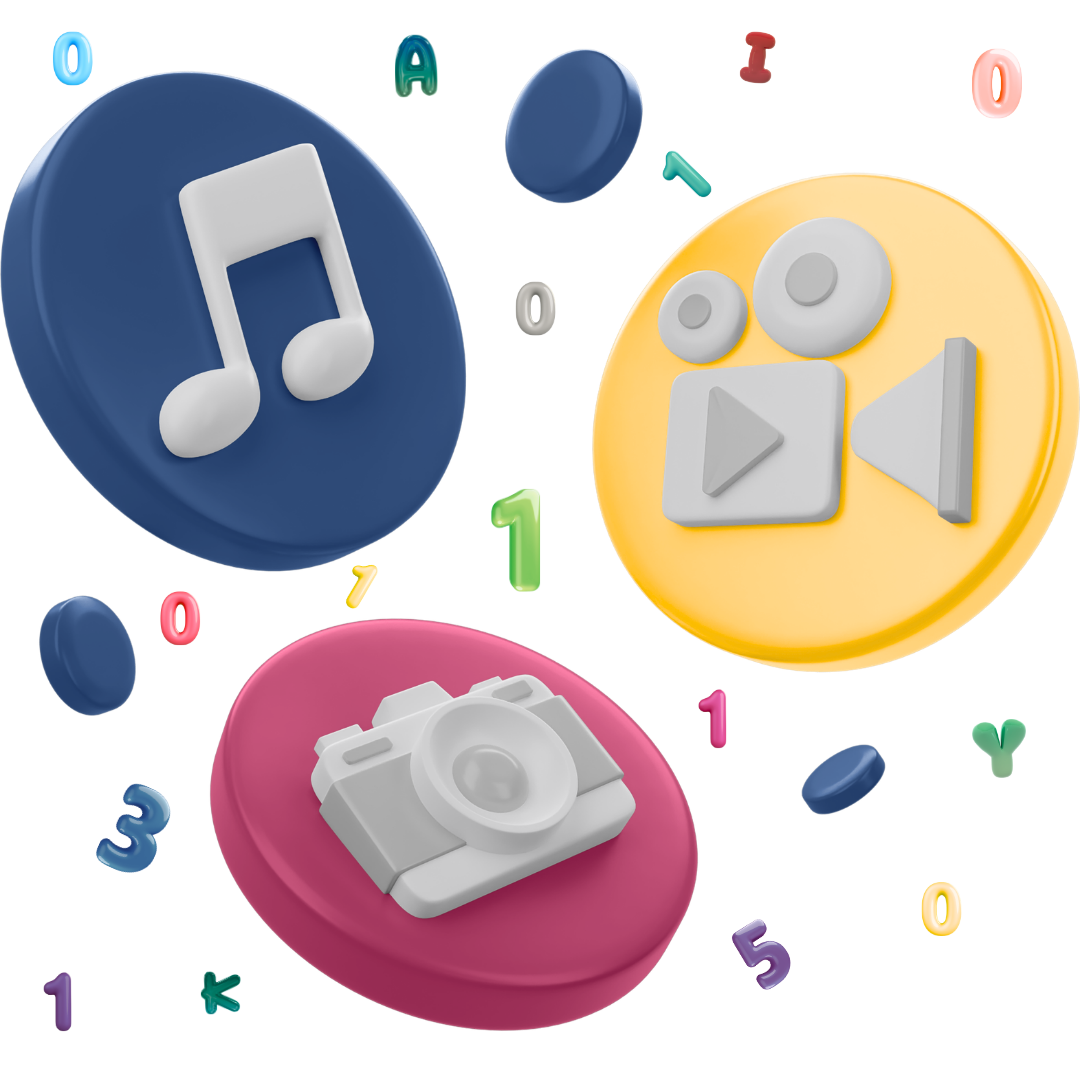
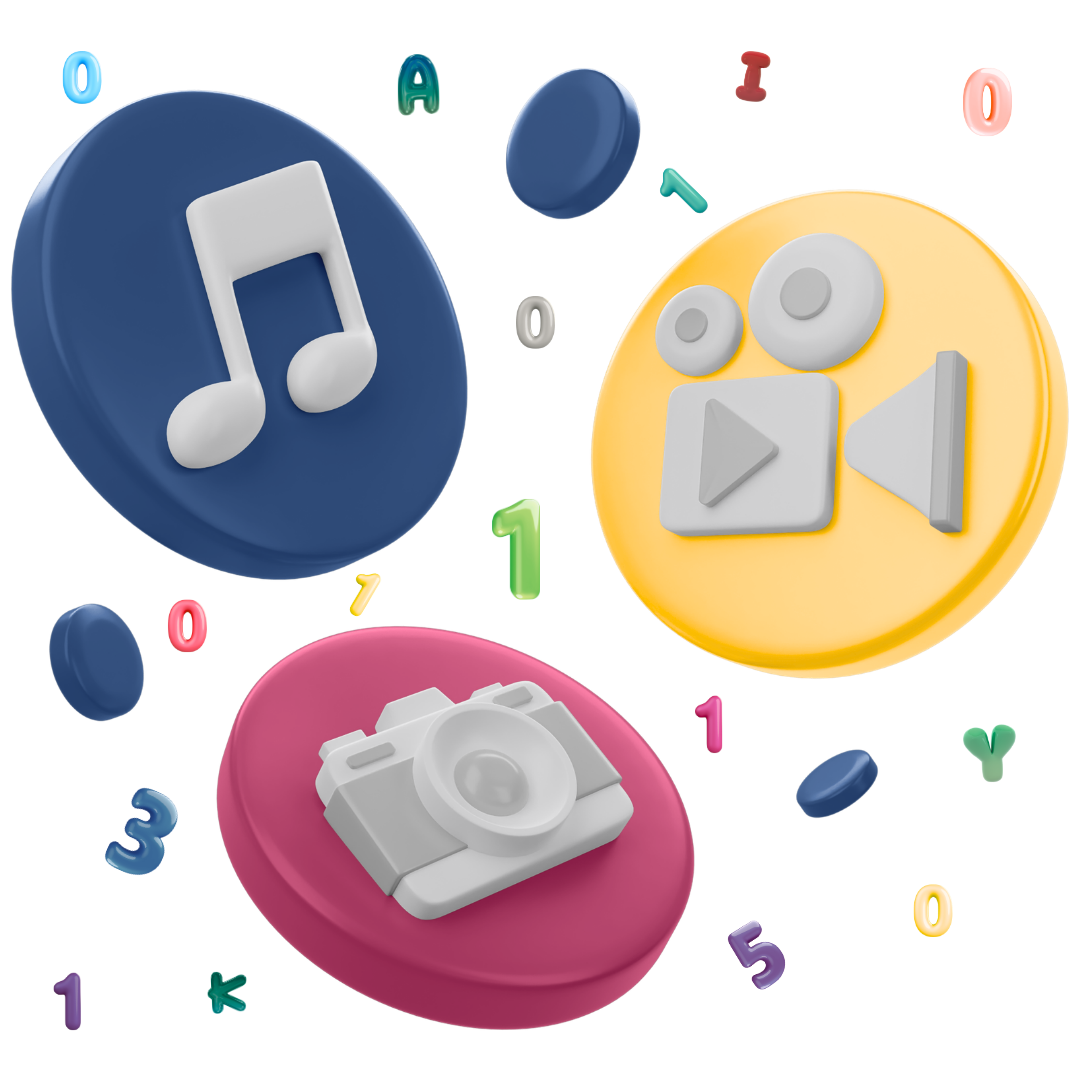
[SOFT-01] Módulo 02

diff --git a/SOFT-01(Python)/data.js b/SOFT-01(Python)/data.js
@@ -281,8 +281,8 @@ const data = {
                             title: 'Estructuras secuenciales',
                             content: `<p>Una computadora no piensa ni tiene voluntad propia. Solo hace lo que se le ordena, en el orden exacto en que se lo dice. </p>
                             <p>La forma más básica y fundamental de darle órdenes a una máquina es una instrucción tras otra, de arriba hacia abajo, sin saltos ni desvíos. </p>
-                            
                             `,
+                            image: 'https://raw.githubusercontent.com/vi-micrositios/cenfotec/refs/heads/main/SOFT-01(Python)/imgs/pasos_lineales.png',
                             nextButton: 'Siguiente: Flujos secuenciales'
                         },
                         {
@@ -290,6 +290,7 @@ const data = {
                             content: `<p>Es el "camino" que sigue el programa. </p>
                             <p>Se puede visualizar como una escalera: se pone un pie en el primer escalón, luego en el segundo, luego en el tercero, y llega al final. Ese es el flujo secuencial. Es el comportamiento por defecto de cualquier programa que no tenga condiciones ni bucles.</p>
                             `,
+                            image: 'https://raw.githubusercontent.com/vi-micrositios/cenfotec/refs/heads/main/SOFT-01(Python)/imgs/escalera.png',
                             nextButton: ''
                         }
                     ]
@@ -302,9 +303,15 @@ const data = {
                             title: 'Datos',
                             content: `<p>Es la información representada simbólicamente a través de números, letras o la combinación de ambas. </p>
                             <p>Se clasifican en datos de entrada o datos de salida. Además, en Python se pueden utilizar cuatro tipos de datos: numéricos, caracteres, booleanos y el tipo de dato "none".</p>
-                            <p>Ejemplos</p>
-                            
+                            <p>Ejemplos:</p>
+                             <ul>
+                                <li>Una canción, un vídeo o una fotografía.</li>
+                                <li>La representación binaria del número 5 que es 101.</li>
+                                <li>Al presionar una tecla del teclado, el dato en la computadora se convierte en un dato de entrada.</li>
+                                <li>Al hacer una suma en la calculadora, el resultado que se muestra en pantalla es un dato de salida.</li>
+                            </ul>
                             `,
+                            image: 'https://raw.githubusercontent.com/vi-micrositios/cenfotec/refs/heads/main/SOFT-01(Python)/imgs/datos.png',
                             nextButton: 'Siguiente: Datos numéricos'
                         },
                         {
